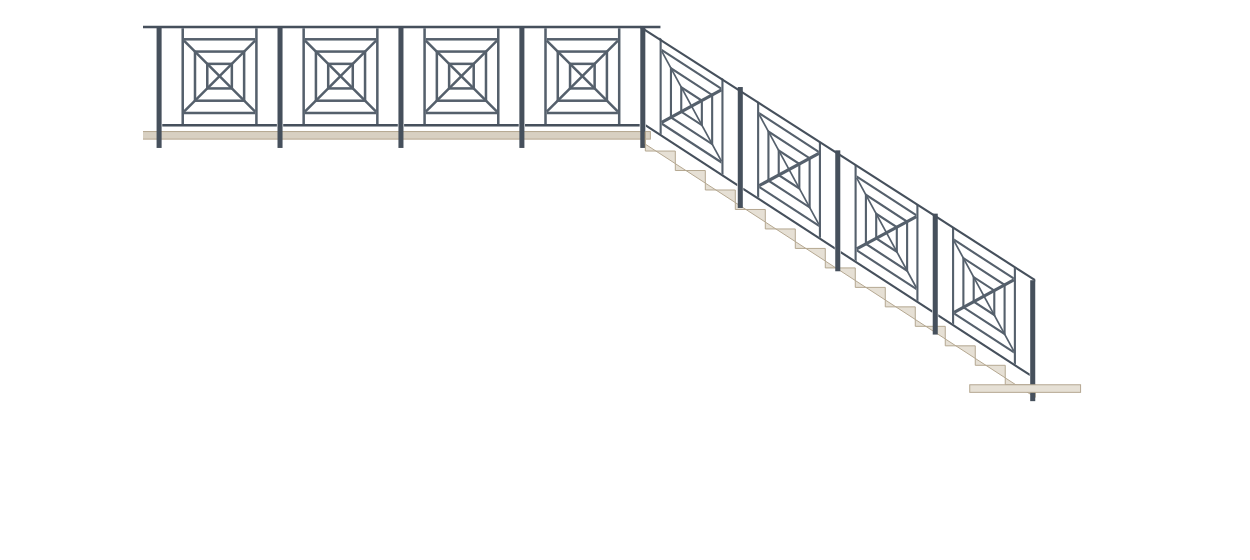
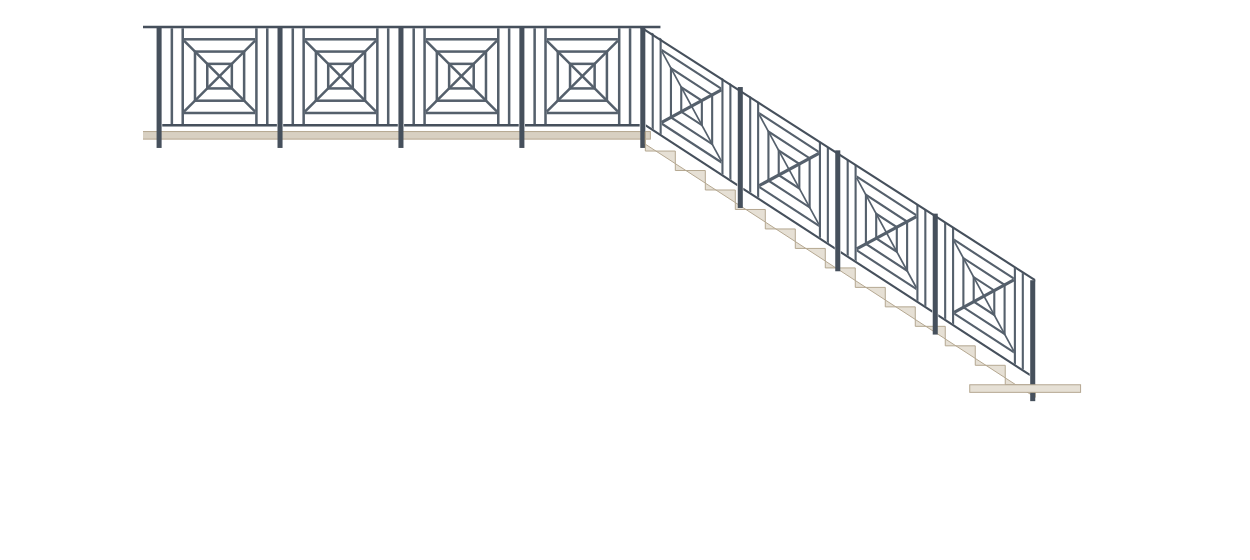
Vista solo dibujos corregida: cada pano es el modelo completo con sus piques de flanco
Claude-Session: https://claude.ai/code/session_011Xm5msSMRk1LgWY9yKL9Lu

Changed region(s): [[0.6552, 0.2732, 0.6864, 0.425], [0.4992, 0.0607, 0.5304, 0.2125], [0.4056, 0.0607, 0.4368, 0.2125]]

diff --git a/proposals/jrg-welding-corp/railing-vista-solo-dibujos.html b/proposals/jrg-welding-corp/railing-vista-solo-dibujos.html
@@ -13,7 +13,9 @@
 <line x1="23.07" y1="15.28" x2="96.53" y2="88.73" stroke="#55606c" stroke-width="2.6" stroke-linecap="butt"/>
 <line x1="23.07" y1="88.73" x2="96.53" y2="15.28" stroke="#55606c" stroke-width="2.6" stroke-linecap="butt"/>
 <rect x="34.45" y="26.65" width="50.7" height="50.7" fill="none" stroke="#55606c" stroke-width="2.6"/>
-<rect x="47.12" y="39.33" width="25.35" height="25.35" fill="none" stroke="#55606c" stroke-width="2.6"/></g>
+<rect x="47.12" y="39.33" width="25.35" height="25.35" fill="none" stroke="#55606c" stroke-width="2.6"/>
+<rect x="9.26" y="2.6" width="2.6" height="98.8" fill="#55606c" />
+<rect x="107.74" y="2.6" width="2.6" height="98.8" fill="#55606c" /></g>
 <rect x="124.8" y="1.3" width="5.2" height="124.8" fill="#46505c" />
 <g transform="translate(130.0,0)"><rect x="0.65" y="101.4" width="118.3" height="2.6" fill="#46505c" />
 <rect x="20.48" y="2.6" width="2.6" height="98.8" fill="#55606c" />
@@ -23,7 +25,9 @@
 <line x1="23.07" y1="15.28" x2="96.53" y2="88.73" stroke="#55606c" stroke-width="2.6" stroke-linecap="butt"/>
 <line x1="23.07" y1="88.73" x2="96.53" y2="15.28" stroke="#55606c" stroke-width="2.6" stroke-linecap="butt"/>
 <rect x="34.45" y="26.65" width="50.7" height="50.7" fill="none" stroke="#55606c" stroke-width="2.6"/>
-<rect x="47.12" y="39.33" width="25.35" height="25.35" fill="none" stroke="#55606c" stroke-width="2.6"/></g>
+<rect x="47.12" y="39.33" width="25.35" height="25.35" fill="none" stroke="#55606c" stroke-width="2.6"/>
+<rect x="9.26" y="2.6" width="2.6" height="98.8" fill="#55606c" />
+<rect x="107.74" y="2.6" width="2.6" height="98.8" fill="#55606c" /></g>
 <rect x="249.6" y="1.3" width="5.2" height="124.8" fill="#46505c" />
 <g transform="translate(254.8,0)"><rect x="0.65" y="101.4" width="118.3" height="2.6" fill="#46505c" />
 <rect x="20.48" y="2.6" width="2.6" height="98.8" fill="#55606c" />
@@ -33,7 +37,9 @@
 <line x1="23.07" y1="15.28" x2="96.53" y2="88.73" stroke="#55606c" stroke-width="2.6" stroke-linecap="butt"/>
 <line x1="23.07" y1="88.73" x2="96.53" y2="15.28" stroke="#55606c" stroke-width="2.6" stroke-linecap="butt"/>
 <rect x="34.45" y="26.65" width="50.7" height="50.7" fill="none" stroke="#55606c" stroke-width="2.6"/>
-<rect x="47.12" y="39.33" width="25.35" height="25.35" fill="none" stroke="#55606c" stroke-width="2.6"/></g>
+<rect x="47.12" y="39.33" width="25.35" height="25.35" fill="none" stroke="#55606c" stroke-width="2.6"/>
+<rect x="9.26" y="2.6" width="2.6" height="98.8" fill="#55606c" />
+<rect x="107.74" y="2.6" width="2.6" height="98.8" fill="#55606c" /></g>
 <rect x="374.4" y="1.3" width="5.2" height="124.8" fill="#46505c" />
 <g transform="translate(379.6,0)"><rect x="0.65" y="101.4" width="118.3" height="2.6" fill="#46505c" />
 <rect x="20.48" y="2.6" width="2.6" height="98.8" fill="#55606c" />
@@ -43,7 +49,9 @@
 <line x1="23.07" y1="15.28" x2="96.53" y2="88.73" stroke="#55606c" stroke-width="2.6" stroke-linecap="butt"/>
 <line x1="23.07" y1="88.73" x2="96.53" y2="15.28" stroke="#55606c" stroke-width="2.6" stroke-linecap="butt"/>
 <rect x="34.45" y="26.65" width="50.7" height="50.7" fill="none" stroke="#55606c" stroke-width="2.6"/>
-<rect x="47.12" y="39.33" width="25.35" height="25.35" fill="none" stroke="#55606c" stroke-width="2.6"/></g>
+<rect x="47.12" y="39.33" width="25.35" height="25.35" fill="none" stroke="#55606c" stroke-width="2.6"/>
+<rect x="9.26" y="2.6" width="2.6" height="98.8" fill="#55606c" />
+<rect x="107.74" y="2.6" width="2.6" height="98.8" fill="#55606c" /></g>
 <rect x="499.2" y="1.3" width="5.2" height="124.8" fill="#46505c" />
 <rect x="-15.6" y="0.0" width="535.6" height="2.6" fill="#46505c" />
 <polygon points="504.4,109.2 504.4,129.3 535.35,129.3 535.35,149.4 566.31,149.4 566.31,169.5 597.26,169.5 597.26,189.61 628.21,189.61 628.21,209.71 659.17,209.71 659.17,229.81 690.12,229.81 690.12,249.91 721.07,249.91 721.07,270.01 752.03,270.01 752.03,290.11 782.98,290.11 782.98,310.21 813.93,310.21 813.93,330.32 844.89,330.32 844.89,350.42 875.84,350.42 875.84,370.52 906.8,370.52 906.8,383.52 504.4,122.2" fill="#e6e0d5" stroke="#b3a58e" stroke-width="1"/>
@@ -55,7 +63,9 @@
 <line x1="20.15" y1="15.28" x2="93.6" y2="88.73" stroke="#55606c" stroke-width="2.6" stroke-linecap="butt"/>
 <line x1="20.15" y1="88.73" x2="93.6" y2="15.28" stroke="#55606c" stroke-width="2.6" stroke-linecap="butt"/>
 <rect x="31.53" y="26.65" width="50.7" height="50.7" fill="none" stroke="#55606c" stroke-width="2.6"/>
-<rect x="44.2" y="39.33" width="25.35" height="25.35" fill="none" stroke="#55606c" stroke-width="2.6"/></g>
+<rect x="44.2" y="39.33" width="25.35" height="25.35" fill="none" stroke="#55606c" stroke-width="2.6"/>
+<rect x="7.8" y="2.6" width="2.6" height="98.8" fill="#55606c" />
+<rect x="103.35" y="2.6" width="2.6" height="98.8" fill="#55606c" /></g>
 <g transform="matrix(0.8387,0.5446,0,1,605.0,65.33)"><rect x="0.65" y="101.4" width="112.45" height="2.6" fill="#46505c" />
 <rect x="17.55" y="2.6" width="2.6" height="98.8" fill="#55606c" />
 <rect x="93.6" y="2.6" width="2.6" height="98.8" fill="#55606c" />
@@ -64,7 +74,9 @@
 <line x1="20.15" y1="15.28" x2="93.6" y2="88.73" stroke="#55606c" stroke-width="2.6" stroke-linecap="butt"/>
 <line x1="20.15" y1="88.73" x2="93.6" y2="15.28" stroke="#55606c" stroke-width="2.6" stroke-linecap="butt"/>
 <rect x="31.53" y="26.65" width="50.7" height="50.7" fill="none" stroke="#55606c" stroke-width="2.6"/>
-<rect x="44.2" y="39.33" width="25.35" height="25.35" fill="none" stroke="#55606c" stroke-width="2.6"/></g>
+<rect x="44.2" y="39.33" width="25.35" height="25.35" fill="none" stroke="#55606c" stroke-width="2.6"/>
+<rect x="7.8" y="2.6" width="2.6" height="98.8" fill="#55606c" />
+<rect x="103.35" y="2.6" width="2.6" height="98.8" fill="#55606c" /></g>
 <rect x="599.8" y="63.25" width="5.2" height="124.8" fill="#46505c" />
 <g transform="matrix(0.8387,0.5446,0,1,705.6,130.66)"><rect x="0.65" y="101.4" width="112.45" height="2.6" fill="#46505c" />
 <rect x="17.55" y="2.6" width="2.6" height="98.8" fill="#55606c" />
@@ -74,7 +86,9 @@
 <line x1="20.15" y1="15.28" x2="93.6" y2="88.73" stroke="#55606c" stroke-width="2.6" stroke-linecap="butt"/>
 <line x1="20.15" y1="88.73" x2="93.6" y2="15.28" stroke="#55606c" stroke-width="2.6" stroke-linecap="butt"/>
 <rect x="31.53" y="26.65" width="50.7" height="50.7" fill="none" stroke="#55606c" stroke-width="2.6"/>
-<rect x="44.2" y="39.33" width="25.35" height="25.35" fill="none" stroke="#55606c" stroke-width="2.6"/></g>
+<rect x="44.2" y="39.33" width="25.35" height="25.35" fill="none" stroke="#55606c" stroke-width="2.6"/>
+<rect x="7.8" y="2.6" width="2.6" height="98.8" fill="#55606c" />
+<rect x="103.35" y="2.6" width="2.6" height="98.8" fill="#55606c" /></g>
 <rect x="700.4" y="128.58" width="5.2" height="124.8" fill="#46505c" />
 <g transform="matrix(0.8387,0.5446,0,1,806.2,195.99)"><rect x="0.65" y="101.4" width="112.45" height="2.6" fill="#46505c" />
 <rect x="17.55" y="2.6" width="2.6" height="98.8" fill="#55606c" />
@@ -84,7 +98,9 @@
 <line x1="20.15" y1="15.28" x2="93.6" y2="88.73" stroke="#55606c" stroke-width="2.6" stroke-linecap="butt"/>
 <line x1="20.15" y1="88.73" x2="93.6" y2="15.28" stroke="#55606c" stroke-width="2.6" stroke-linecap="butt"/>
 <rect x="31.53" y="26.65" width="50.7" height="50.7" fill="none" stroke="#55606c" stroke-width="2.6"/>
-<rect x="44.2" y="39.33" width="25.35" height="25.35" fill="none" stroke="#55606c" stroke-width="2.6"/></g>
+<rect x="44.2" y="39.33" width="25.35" height="25.35" fill="none" stroke="#55606c" stroke-width="2.6"/>
+<rect x="7.8" y="2.6" width="2.6" height="98.8" fill="#55606c" />
+<rect x="103.35" y="2.6" width="2.6" height="98.8" fill="#55606c" /></g>
 <rect x="801.0" y="193.91" width="5.2" height="124.8" fill="#46505c" />
 <polygon points="499.2,0 906.8,261.32 906.8,263.92 499.2,2.6" fill="#46505c"/>
 <rect x="901.6" y="262.62" width="5.2" height="124.8" fill="#46505c" />
